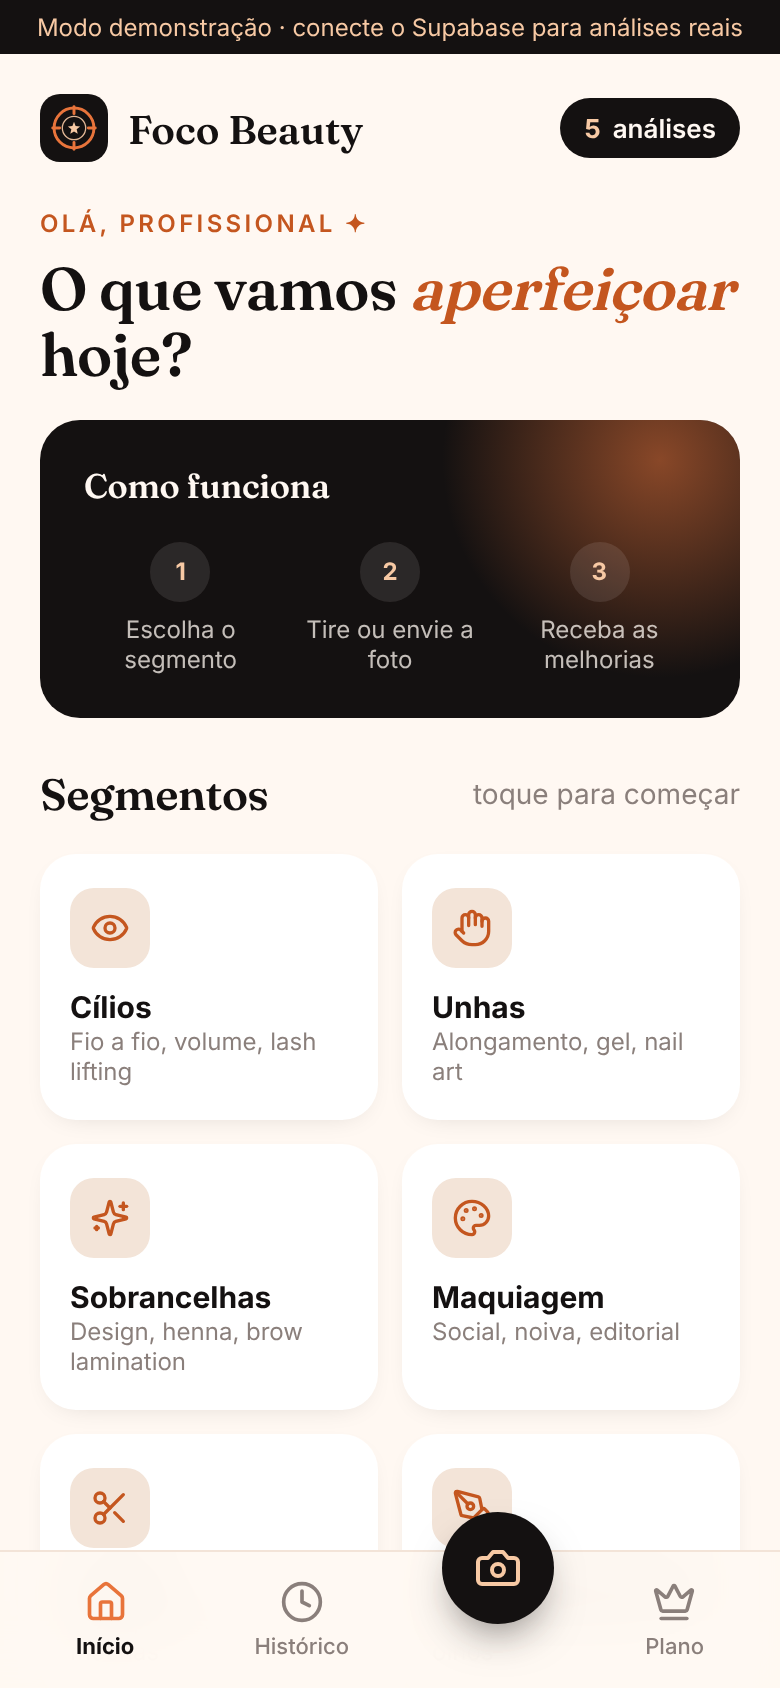
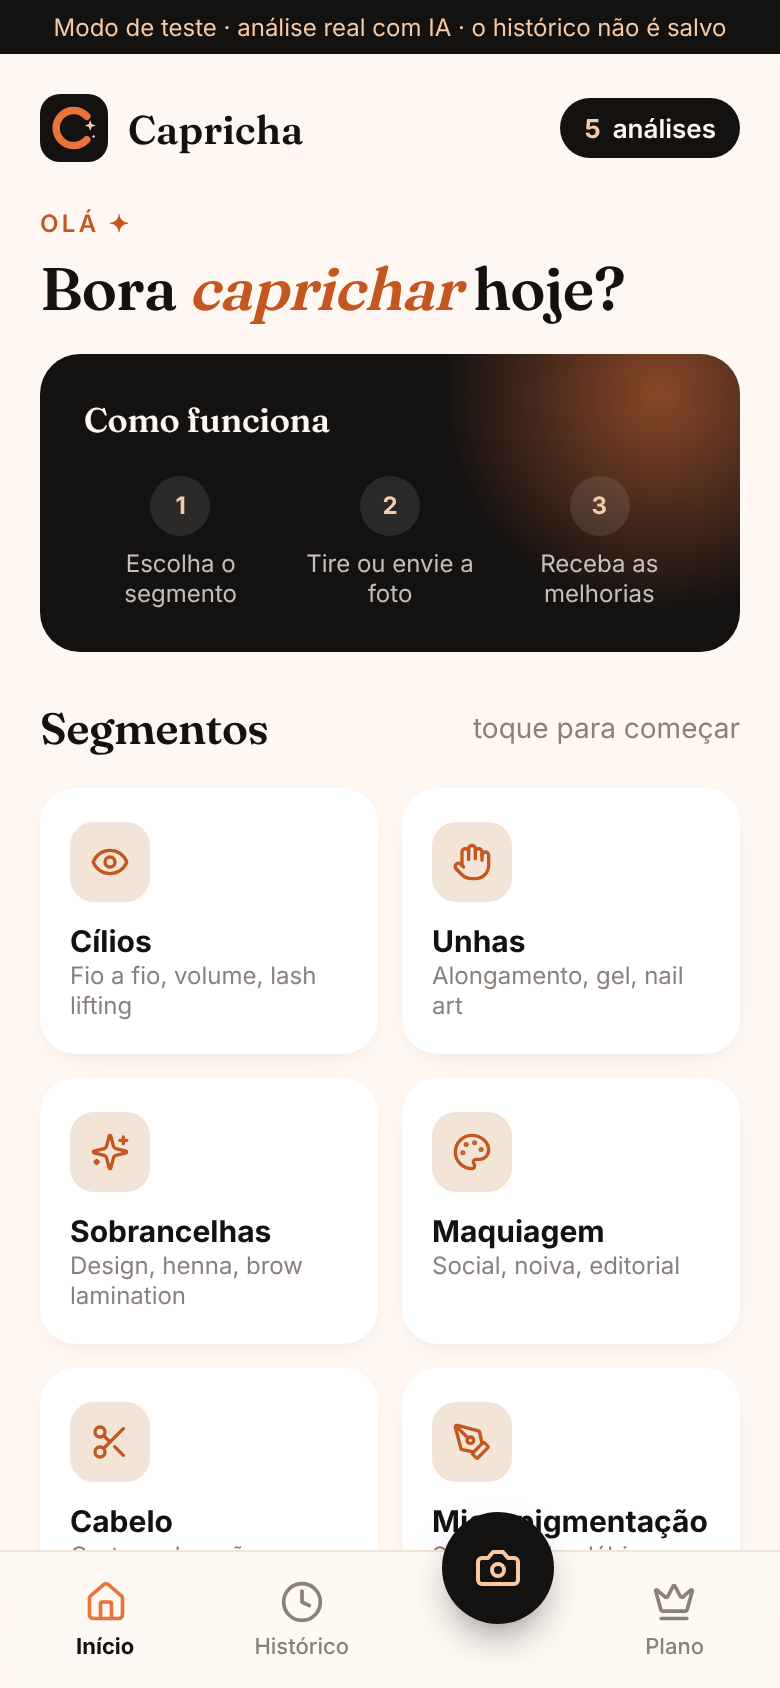
Renomeia o app para Capricha
- Nome, slogan "sua mentora de bolso" e novo ícone (C em cobre)
- Manifest, título, telas, texto de compartilhar e README atualizados
- Capturas de tela refeitas

Claude-Session: https://claude.ai/code/session_016KD5oLtDQHpmo4pRpByRDM

diff --git a/index.html b/index.html
@@ -3,7 +3,7 @@
   <head>
     <meta charset="UTF-8" />
     <meta name="viewport" content="width=device-width, initial-scale=1.0, viewport-fit=cover" />
-    <title>Foco Beauty · Análise de procedimentos com IA</title>
+    <title>Capricha · sua mentora de bolso</title>
     <meta name="description" content="Fotografe seu procedimento de beleza e receba, em segundos, uma análise técnica com pontos fortes e melhorias." />
     <meta name="theme-color" content="#141111" />
     <link rel="manifest" href="/manifest.webmanifest" />
@@ -11,7 +11,7 @@
     <link rel="apple-touch-icon" href="/icons/icon-192.png" />
     <meta name="apple-mobile-web-app-capable" content="yes" />
     <meta name="apple-mobile-web-app-status-bar-style" content="black-translucent" />
-    <meta name="apple-mobile-web-app-title" content="Foco Beauty" />
+    <meta name="apple-mobile-web-app-title" content="Capricha" />
     <link rel="preconnect" href="https://fonts.googleapis.com" />
     <link rel="preconnect" href="https://fonts.gstatic.com" crossorigin />
     <link href="https://fonts.googleapis.com/css2?family=Fraunces:opsz,wght@9..144,500;9..144,600&family=Inter:wght@400;500;600;700&display=swap" rel="stylesheet" />

diff --git a/src/screens/Login.tsx b/src/screens/Login.tsx
@@ -35,10 +35,10 @@ export default function Login() {
     <div className="login app" style={{ paddingBottom: 0 }}>
       <div className="login-hero">
         <div className="marca" style={{ color: "var(--creme)" }}>
-          <img src={icone} alt="" /> Foco Beauty
+          <img src={icone} alt="" /> Capricha
         </div>
-        <h1>Seu olhar técnico,<br /><span className="destaque" style={{ color: "var(--pessego)" }}>em segundos.</span></h1>
-        <p style={{ marginTop: 12, opacity: 0.8 }}>Fotografe o procedimento e receba uma análise com o que está ótimo e o que dá para melhorar.</p>
+        <h1>Sua mentora<br /><span className="destaque" style={{ color: "var(--pessego)" }}>de bolso.</span></h1>
+        <p style={{ marginTop: 12, opacity: 0.8 }}>Fotografe o procedimento e receba uma análise honesta: o que está bom e o que dá para caprichar mais.</p>
       </div>
 
       <form className="login-form pilha" onSubmit={enviar}>

diff --git a/src/screens/Inicio.tsx b/src/screens/Inicio.tsx
@@ -20,7 +20,7 @@ export default function Inicio({ perfil, ir }: { perfil: Perfil | null; ir: (t: 
   return (
     <div className="pagina pilha">
       <div className="topo">
-        <div className="marca"><img src={icone} alt="" /> Foco Beauty</div>
+        <div className="marca"><img src={icone} alt="" /> Capricha</div>
         <button className="chip-creditos" onClick={() => ir({ nome: "planos" })}>
           <b>{perfil?.creditos ?? "–"}</b> análises
         </button>
@@ -28,7 +28,7 @@ export default function Inicio({ perfil, ir }: { perfil: Perfil | null; ir: (t: 
 
       <div>
         <p className="eyebrow">Olá{primeiroNome ? `, ${primeiroNome}` : ""} ✦</p>
-        <h1 style={{ marginTop: 6 }}>O que vamos <span className="destaque">aperfeiçoar</span> hoje?</h1>
+        <h1 style={{ marginTop: 6 }}>Bora <span className="destaque">caprichar</span> hoje?</h1>
       </div>
 
       <div className="cartao-escuro">

diff --git a/src/screens/Resultado.tsx b/src/screens/Resultado.tsx
@@ -17,7 +17,7 @@ export default function ResultadoTela({ analise, ir }: { analise: Analise; ir: (
   const nota = Number(r.nota_geral) || 0;
 
   function compartilhar() {
-    const texto = `Minha análise Foco Beauty ✦ ${r.procedimento_identificado}: nota ${nota.toFixed(1)}\n\nPróximo passo: ${r.melhorias[0]?.titulo ?? ""}\n\nDica de ouro: ${r.dica_de_ouro}`;
+    const texto = `Minha análise no Capricha ✦ ${r.procedimento_identificado}: nota ${nota.toFixed(1)}\n\nPróximo passo: ${r.melhorias[0]?.titulo ?? ""}\n\nDica de ouro: ${r.dica_de_ouro}`;
     if (navigator.share) navigator.share({ title: "Minha análise", text: texto }).catch(() => {});
     else navigator.clipboard.writeText(texto);
   }

diff --git a/src/styles.css b/src/styles.css
@@ -1,5 +1,5 @@
 /* =====================================================================
-   Foco Beauty · identidade visual
+   Capricha · identidade visual
    Laranja + preto refinados para beleza: cobre, pêssego, creme e nude.
    ===================================================================== */
 :root {

diff --git a/public/sw.js b/public/sw.js
@@ -1,5 +1,5 @@
 // Service worker simples: deixa o app instalável e abre rápido mesmo com internet ruim.
-const CACHE = "foco-beauty-v1";
+const CACHE = "capricha-v1";
 const SHELL = ["/", "/manifest.webmanifest", "/icons/icon.svg", "/icons/icon-192.png"];
 
 self.addEventListener("install", (e) => {

diff --git a/README.md b/README.md
@@ -1,4 +1,6 @@
-# Foco Beauty · análise de procedimentos de beleza com IA
+# Capricha · sua mentora de bolso
+
+App de análise de procedimentos de beleza com IA.
 
 A profissional tira uma foto do procedimento (cílios, unhas, sobrancelhas, maquiagem, cabelo, micropigmentação, estética…) e recebe em segundos:
 
